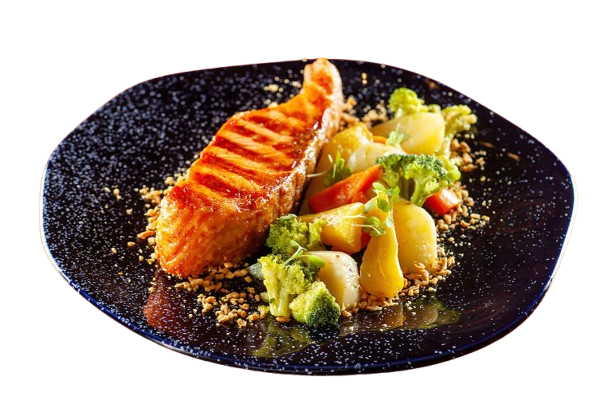
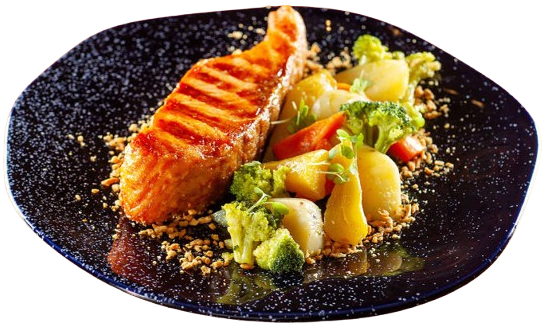
update images

diff --git a/src/styles/menu.css b/src/styles/menu.css
@@ -43,6 +43,16 @@
     border-radius: 0px 37.5px 0px 42.5px;
 }
 
+.dish-image {
+    width: 100%; 
+    height: auto; 
+    max-height: 200px; 
+    object-fit: cover; 
+    border-radius: 10px; 
+    margin-top: 50px;
+}
+
+
 .dish-description {
     color: #434343;
     text-align: center;
@@ -72,5 +82,9 @@
 @media screen and (max-width: 600px) {
     .dish {
         width: 100%;
+    }
+
+    #menu .section-subtitle {
+        text-align: center;
     }
 }

diff --git a/src/styles/header.css b/src/styles/header.css
@@ -1,6 +1,10 @@
 header {
     width: 100%;
     padding: 28px 8%;
+    position: sticky;
+    top: 0;
+    background-color: #fff9ea;
+    z-index: 3;
 }
 
 #navbar {
